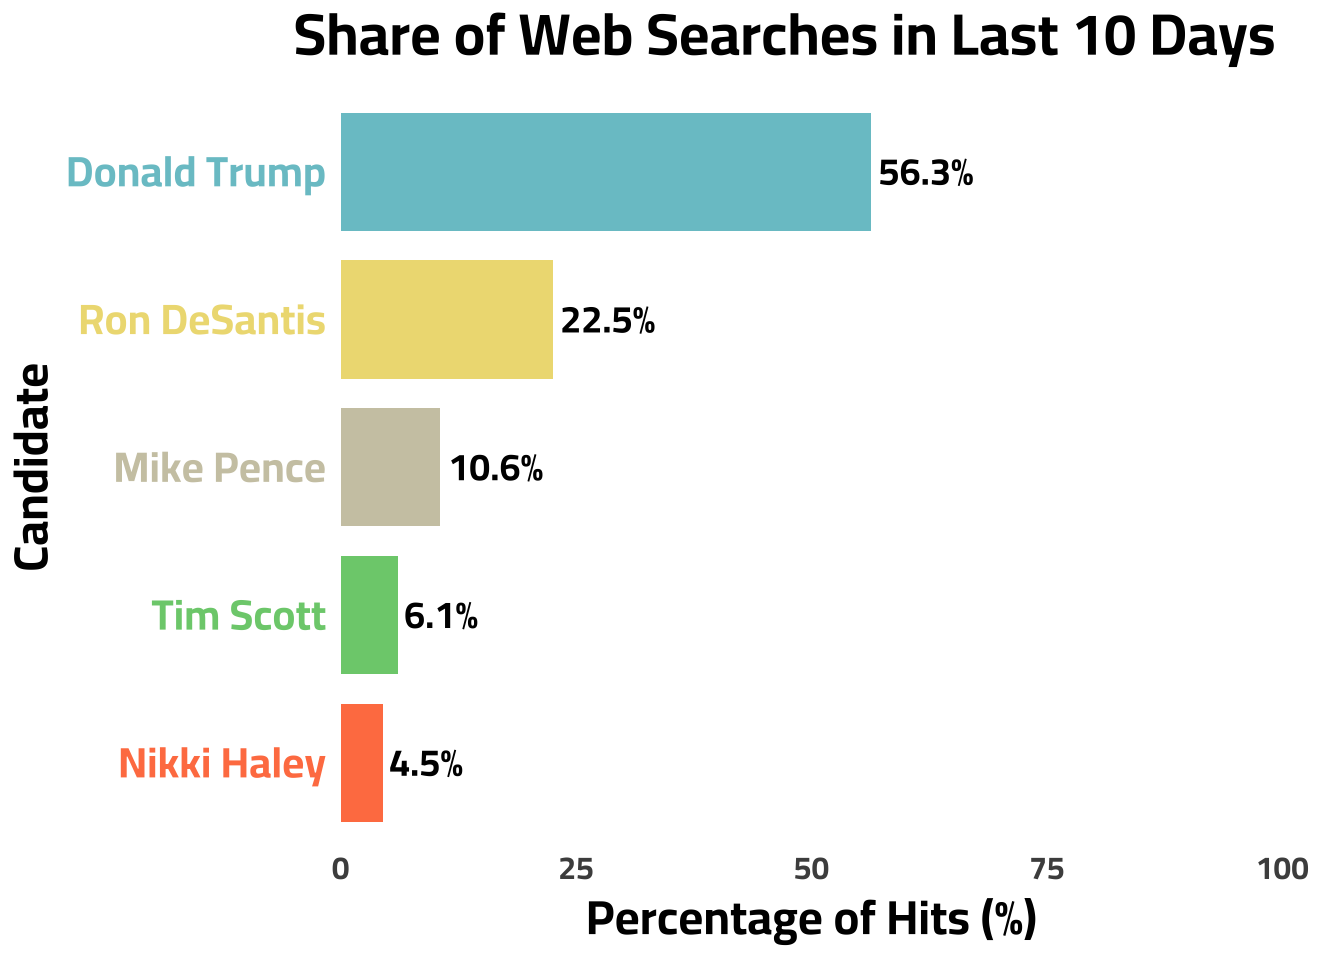
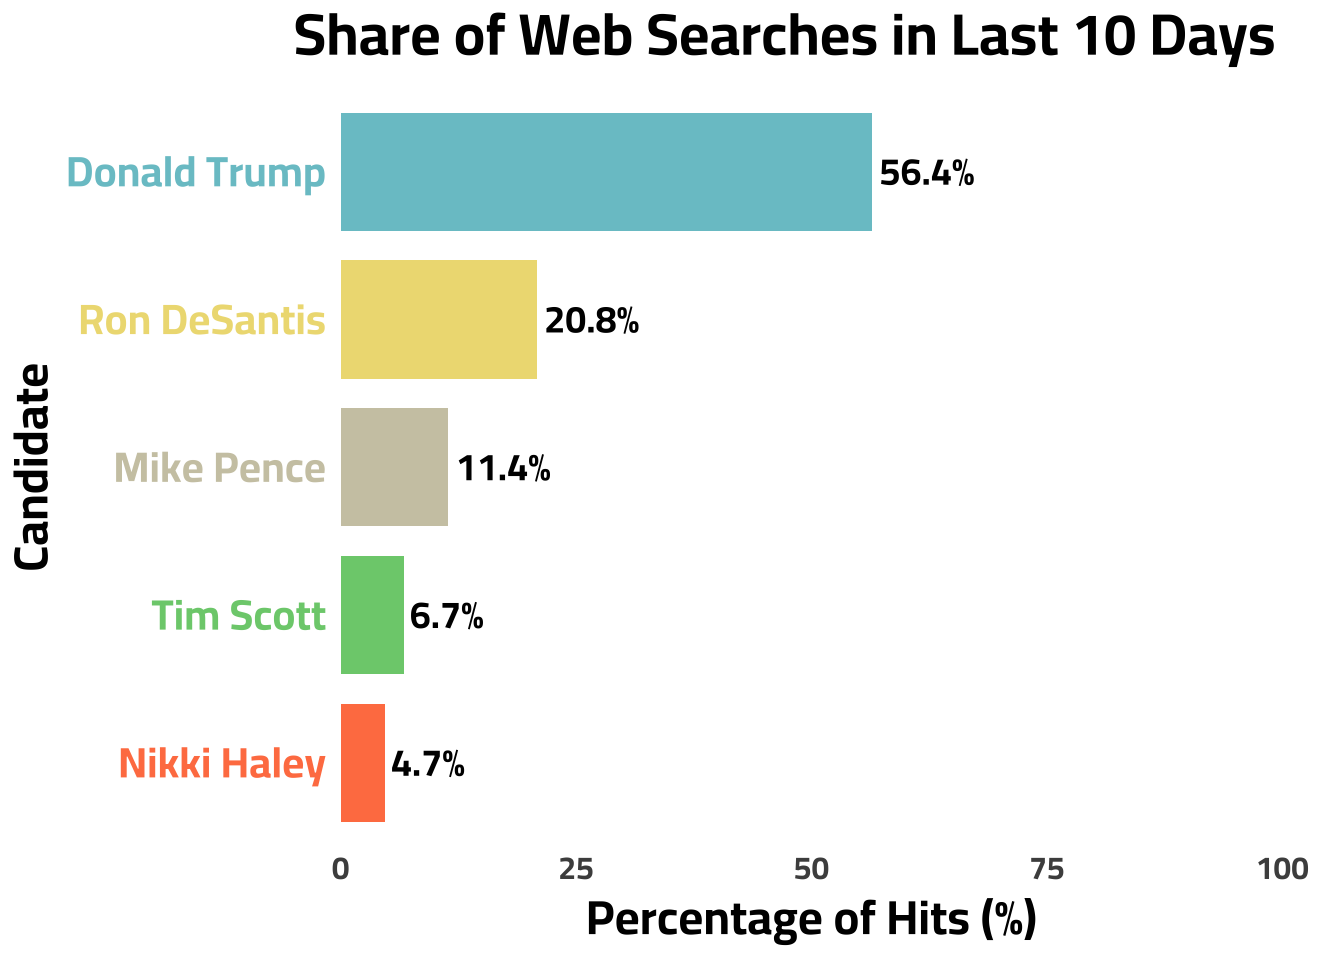
StreamGraph Update

diff --git a/_site/blog.html b/_site/blog.html
@@ -178,7 +178,7 @@ ul.task-list li input[type="checkbox"] {
 
 <div class="quarto-listing quarto-listing-container-default" id="listing-listing">
 <div class="list quarto-listing-default">
-<div class="quarto-post image-right" data-index="0" data-categories="Google Trends,Data Journalism,Politics,CICD" data-listing-date-sort="1689033600000" data-listing-file-modified-sort="1692274939375" data-listing-date-modified-sort="NaN" data-listing-reading-time-sort="7">
+<div class="quarto-post image-right" data-index="0" data-categories="Google Trends,Data Journalism,Politics,CICD" data-listing-date-sort="1689033600000" data-listing-file-modified-sort="1692361395792" data-listing-date-modified-sort="NaN" data-listing-reading-time-sort="7">
 <div class="thumbnail">
 <p><a href="./posts/primary_stream/index.html"> <img src="././about_files/primary_1.png" class="thumbnail-image"> </a></p>
 </div>
@@ -215,7 +215,7 @@ Jul 11, 2023
 </a>
 </div>
 </div>
-<div class="quarto-post image-right" data-index="1" data-categories="Life Hacks,Quarto" data-listing-date-sort="1688601600000" data-listing-file-modified-sort="1692274939375" data-listing-date-modified-sort="NaN" data-listing-reading-time-sort="3">
+<div class="quarto-post image-right" data-index="1" data-categories="Life Hacks,Quarto" data-listing-date-sort="1688601600000" data-listing-file-modified-sort="1692361395793" data-listing-date-modified-sort="NaN" data-listing-reading-time-sort="3">
 <div class="thumbnail">
 <p><a href="./posts/simple_analytics/index.html"> <img src="./about_files/Simple_Analytics.png" class="thumbnail-image"> </a></p>
 </div>
@@ -246,7 +246,7 @@ Jul 6, 2023
 </a>
 </div>
 </div>
-<div class="quarto-post image-right" data-index="2" data-categories="Data Journalism,Google Trends,Politics" data-listing-date-sort="1687824000000" data-listing-file-modified-sort="1692274939373" data-listing-date-modified-sort="NaN" data-listing-reading-time-sort="7">
+<div class="quarto-post image-right" data-index="2" data-categories="Data Journalism,Google Trends,Politics" data-listing-date-sort="1687824000000" data-listing-file-modified-sort="1692361395785" data-listing-date-modified-sort="NaN" data-listing-reading-time-sort="7">
 <div class="thumbnail">
 <p><a href="./posts/google_trends/index.html"> <img src="./about_files/byteman.png" class="thumbnail-image"> </a></p>
 </div>
@@ -280,7 +280,7 @@ Jun 27, 2023
 </a>
 </div>
 </div>
-<div class="quarto-post image-right" data-index="3" data-categories="Data Journalism,LDS,R" data-listing-date-sort="1675728000000" data-listing-file-modified-sort="1692274939373" data-listing-date-modified-sort="NaN" data-listing-reading-time-sort="4">
+<div class="quarto-post image-right" data-index="3" data-categories="Data Journalism,LDS,R" data-listing-date-sort="1675728000000" data-listing-file-modified-sort="1692361395785" data-listing-date-modified-sort="NaN" data-listing-reading-time-sort="4">
 <div class="thumbnail">
 <p><a href="./posts/income_myth/index.html"> <img src="./about_files/LDS_myth_0.png" class="thumbnail-image"> </a></p>
 </div>
@@ -314,7 +314,7 @@ Feb 7, 2023
 </a>
 </div>
 </div>
-<div class="quarto-post image-right" data-index="4" data-categories="Life Hacks,Quarto" data-listing-date-sort="1662076800000" data-listing-file-modified-sort="1692274939375" data-listing-date-modified-sort="NaN" data-listing-reading-time-sort="3">
+<div class="quarto-post image-right" data-index="4" data-categories="Life Hacks,Quarto" data-listing-date-sort="1662076800000" data-listing-file-modified-sort="1692361395792" data-listing-date-modified-sort="NaN" data-listing-reading-time-sort="3">
 <div class="thumbnail">
 <p><a href="./posts/resume/index.html"> <img src="./about_files/resume_2.png" class="thumbnail-image"> </a></p>
 </div>
@@ -345,7 +345,7 @@ Sep 2, 2022
 </a>
 </div>
 </div>
-<div class="quarto-post image-right" data-index="5" data-categories="Survey Research,Data Journalism,LDS" data-listing-date-sort="1646265600000" data-listing-file-modified-sort="1692274939371" data-listing-date-modified-sort="NaN" data-listing-reading-time-sort="7">
+<div class="quarto-post image-right" data-index="5" data-categories="Survey Research,Data Journalism,LDS" data-listing-date-sort="1646265600000" data-listing-file-modified-sort="1692361395768" data-listing-date-modified-sort="NaN" data-listing-reading-time-sort="7">
 <div class="thumbnail">
 <p><a href="./posts/7_facts/index.html"> <img src="https://www.ldstemple.pics/wp-content/uploads/washington-dc-temple-final-sunset-600x600.jpg" class="thumbnail-image"> </a></p>
 </div>
@@ -379,7 +379,7 @@ Mar 3, 2022
 </a>
 </div>
 </div>
-<div class="quarto-post image-right" data-index="6" data-categories="Data Journalism,R" data-listing-date-sort="1618012800000" data-listing-file-modified-sort="1692274939372" data-listing-date-modified-sort="NaN" data-listing-reading-time-sort="4">
+<div class="quarto-post image-right" data-index="6" data-categories="Data Journalism,R" data-listing-date-sort="1618012800000" data-listing-file-modified-sort="1692361395784" data-listing-date-modified-sort="NaN" data-listing-reading-time-sort="4">
 <div class="thumbnail">
 <p><a href="./posts/facebook_data/index.html"> <img src="./about_files/fb_icon" class="thumbnail-image"> </a></p>
 </div>
@@ -410,7 +410,7 @@ Apr 10, 2021
 </a>
 </div>
 </div>
-<div class="quarto-post image-right" data-index="7" data-categories="Data Journalism,R,Survey Research,LDS,Politics" data-listing-date-sort="1607472000000" data-listing-file-modified-sort="1692274939374" data-listing-date-modified-sort="NaN" data-listing-reading-time-sort="8">
+<div class="quarto-post image-right" data-index="7" data-categories="Data Journalism,R,Survey Research,LDS,Politics" data-listing-date-sort="1607472000000" data-listing-file-modified-sort="1692361395791" data-listing-date-modified-sort="NaN" data-listing-reading-time-sort="8">
 <div class="thumbnail">
 <p><a href="./posts/lds_gop/index.html"> <img src="./about_files/iu-3.jpeg" class="thumbnail-image"> </a></p>
 </div>
@@ -450,7 +450,7 @@ Dec 9, 2020
 </a>
 </div>
 </div>
-<div class="quarto-post image-right" data-index="8" data-categories="Data Journalism,R" data-listing-date-sort="1594339200000" data-listing-file-modified-sort="1692274939372" data-listing-date-modified-sort="NaN" data-listing-reading-time-sort="7">
+<div class="quarto-post image-right" data-index="8" data-categories="Data Journalism,R" data-listing-date-sort="1594339200000" data-listing-file-modified-sort="1692361395777" data-listing-date-modified-sort="NaN" data-listing-reading-time-sort="7">
 <div class="thumbnail">
 <p><a href="./posts/cars/index.html"> <img src="https://media.giphy.com/media/rUE9CTmsYMbbOz2MqD/giphy.gif" class="thumbnail-image"> </a></p>
 </div>
@@ -481,7 +481,7 @@ Jul 10, 2020
 </a>
 </div>
 </div>
-<div class="quarto-post image-right" data-index="9" data-categories="Data Journalism,R,Shiny" data-listing-date-sort="1591660800000" data-listing-file-modified-sort="1692274939374" data-listing-date-modified-sort="NaN" data-listing-reading-time-sort="7">
+<div class="quarto-post image-right" data-index="9" data-categories="Data Journalism,R,Shiny" data-listing-date-sort="1591660800000" data-listing-file-modified-sort="1692361395792" data-listing-date-modified-sort="NaN" data-listing-reading-time-sort="7">
 <div class="thumbnail">
 <p><a href="./posts/mobility/index.html"> <img src="./about_files/iu-2.jpeg" class="thumbnail-image"> </a></p>
 </div>

diff --git a/_site/projects.html b/_site/projects.html
@@ -178,7 +178,7 @@ ul.task-list li input[type="checkbox"] {
 
 <div class="quarto-listing quarto-listing-container-grid" id="listing-listing">
 <div class="list grid quarto-listing-cols-3">
-<div class="g-col-1" data-index="0" data-categories="Capstone,Python,Stats" data-listing-date-sort="1682899200000" data-listing-file-modified-sort="1692274939392" data-listing-date-modified-sort="NaN" data-listing-reading-time-sort="4">
+<div class="g-col-1" data-index="0" data-categories="Capstone,Python,Stats" data-listing-date-sort="1682899200000" data-listing-file-modified-sort="1692361395809" data-listing-date-modified-sort="NaN" data-listing-reading-time-sort="4">
 <a href="./projects/internet_archive/index.html" class="quarto-grid-link">
 <div class="quarto-grid-item card h-100 card-left">
 <p class="card-img-top">
@@ -211,7 +211,7 @@ May 1, 2023
 </div>
 </a>
 </div>
-<div class="g-col-1" data-index="1" data-categories="Python,Stats,Dataviz" data-listing-date-sort="1660867200000" data-listing-file-modified-sort="1692274939386" data-listing-date-modified-sort="NaN" data-listing-reading-time-sort="10">
+<div class="g-col-1" data-index="1" data-categories="Python,Stats,Dataviz" data-listing-date-sort="1660867200000" data-listing-file-modified-sort="1692361395807" data-listing-date-modified-sort="NaN" data-listing-reading-time-sort="10">
 <a href="./projects/bayesian_county/index.html" class="quarto-grid-link">
 <div class="quarto-grid-item card h-100 card-left">
 <p class="card-img-top">
@@ -244,7 +244,7 @@ Aug 19, 2022
 </div>
 </a>
 </div>
-<div class="g-col-1" data-index="2" data-categories="CI/CD,R,Dataviz" data-listing-date-sort="1636329600000" data-listing-file-modified-sort="1692274939386" data-listing-date-modified-sort="NaN" data-listing-reading-time-sort="3">
+<div class="g-col-1" data-index="2" data-categories="CI/CD,R,Dataviz" data-listing-date-sort="1636329600000" data-listing-file-modified-sort="1692361395807" data-listing-date-modified-sort="NaN" data-listing-reading-time-sort="3">
 <a href="./projects/covid_update/index.html" class="quarto-grid-link">
 <div class="quarto-grid-item card h-100 card-left">
 <p class="card-img-top">
@@ -277,7 +277,7 @@ Nov 8, 2021
 </div>
 </a>
 </div>
-<div class="g-col-1" data-index="3" data-categories="Dataviz,Stats,R" data-listing-date-sort="1600387200000" data-listing-file-modified-sort="1692274939388" data-listing-date-modified-sort="NaN" data-listing-reading-time-sort="2">
+<div class="g-col-1" data-index="3" data-categories="Dataviz,Stats,R" data-listing-date-sort="1600387200000" data-listing-file-modified-sort="1692361395807" data-listing-date-modified-sort="NaN" data-listing-reading-time-sort="2">
 <a href="./projects/election_model/index.html" class="quarto-grid-link">
 <div class="quarto-grid-item card h-100 card-left">
 <p class="card-img-top">
@@ -310,7 +310,7 @@ Sep 18, 2020
 </div>
 </a>
 </div>
-<div class="g-col-1" data-index="4" data-categories="R,Shiny" data-listing-date-sort="1596153600000" data-listing-file-modified-sort="1692274939392" data-listing-date-modified-sort="NaN" data-listing-reading-time-sort="2">
+<div class="g-col-1" data-index="4" data-categories="R,Shiny" data-listing-date-sort="1596153600000" data-listing-file-modified-sort="1692361395810" data-listing-date-modified-sort="NaN" data-listing-reading-time-sort="2">
 <a href="./projects/peanuts/index.html" class="quarto-grid-link">
 <div class="quarto-grid-item card h-100 card-left">
 <p class="card-img-top">
@@ -340,7 +340,7 @@ Jul 31, 2020
 </div>
 </a>
 </div>
-<div class="g-col-1" data-index="5" data-categories="Capstone,R,Stats" data-listing-date-sort="1587772800000" data-listing-file-modified-sort="1692274939395" data-listing-date-modified-sort="NaN" data-listing-reading-time-sort="6">
+<div class="g-col-1" data-index="5" data-categories="Capstone,R,Stats" data-listing-date-sort="1587772800000" data-listing-file-modified-sort="1692361395812" data-listing-date-modified-sort="NaN" data-listing-reading-time-sort="6">
 <a href="./projects/star_wars_capstone/index.html" class="quarto-grid-link">
 <div class="quarto-grid-item card h-100 card-left">
 <p class="card-img-top">

diff --git a/_site/posts/primary_stream/index.html b/_site/posts/primary_stream/index.html
@@ -181,7 +181,7 @@ Note
 </div>
 </div>
 <div class="callout-body-container callout-body">
-<p>This graph is updated on a daily basis to provide continuous context to the GOP Primary Election. This graph was last updated: 12:22:26 on 17 Aug 2023</p>
+<p>This graph is updated on a daily basis to provide continuous context to the GOP Primary Election. This graph was last updated: 12:23:26 on 18 Aug 2023</p>
 </div>
 </div>
 <div class="cell">
@@ -234,7 +234,7 @@ Note
 </div>
 </div>
 <div class="callout-body-container callout-body">
-<p>This graph is updated on a daily basis to provide continuous context to the GOP Primary Election. This graph was last updated: 12:22:33 on 17 Aug 2023</p>
+<p>This graph is updated on a daily basis to provide continuous context to the GOP Primary Election. This graph was last updated: 12:23:35 on 18 Aug 2023</p>
 </div>
 </div>
 <p>This graph is provided to give a barometer reading of a candidates <em>recent</em> popularity/news coverage.</p>
